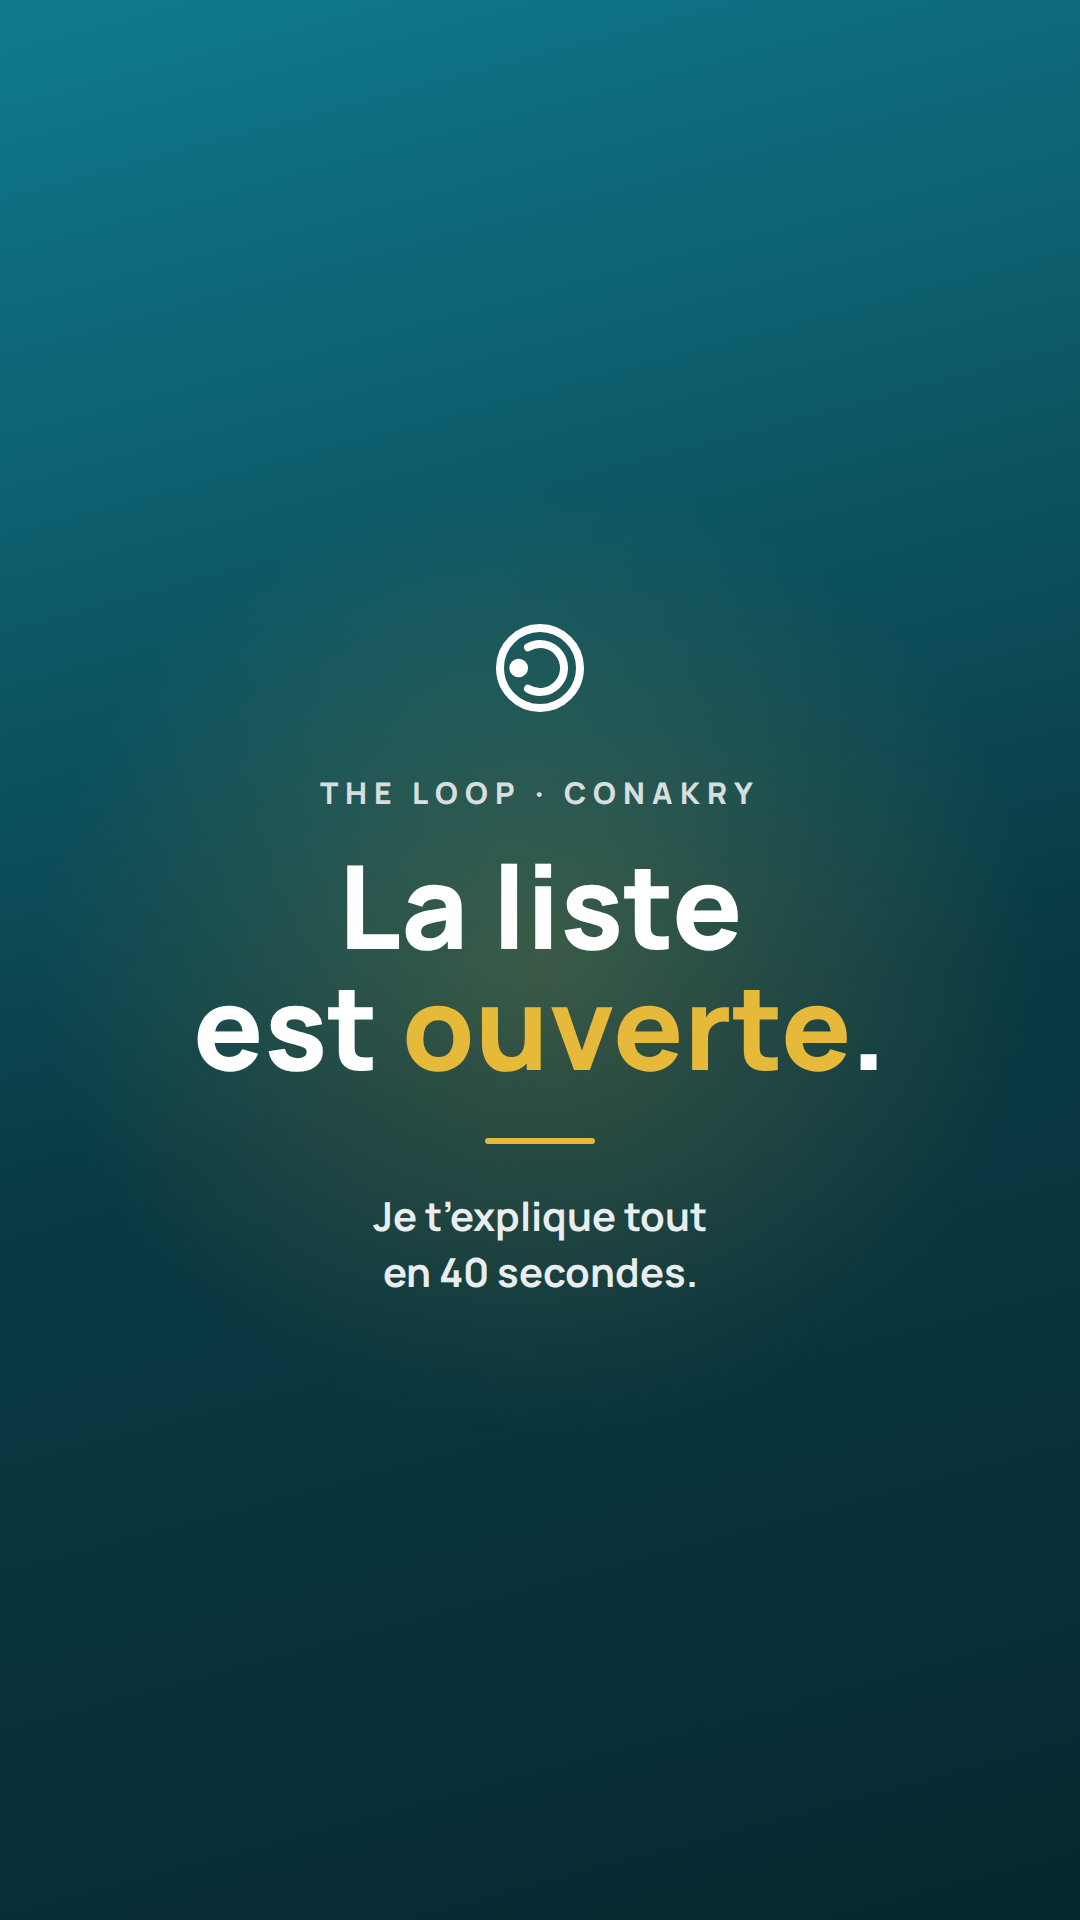
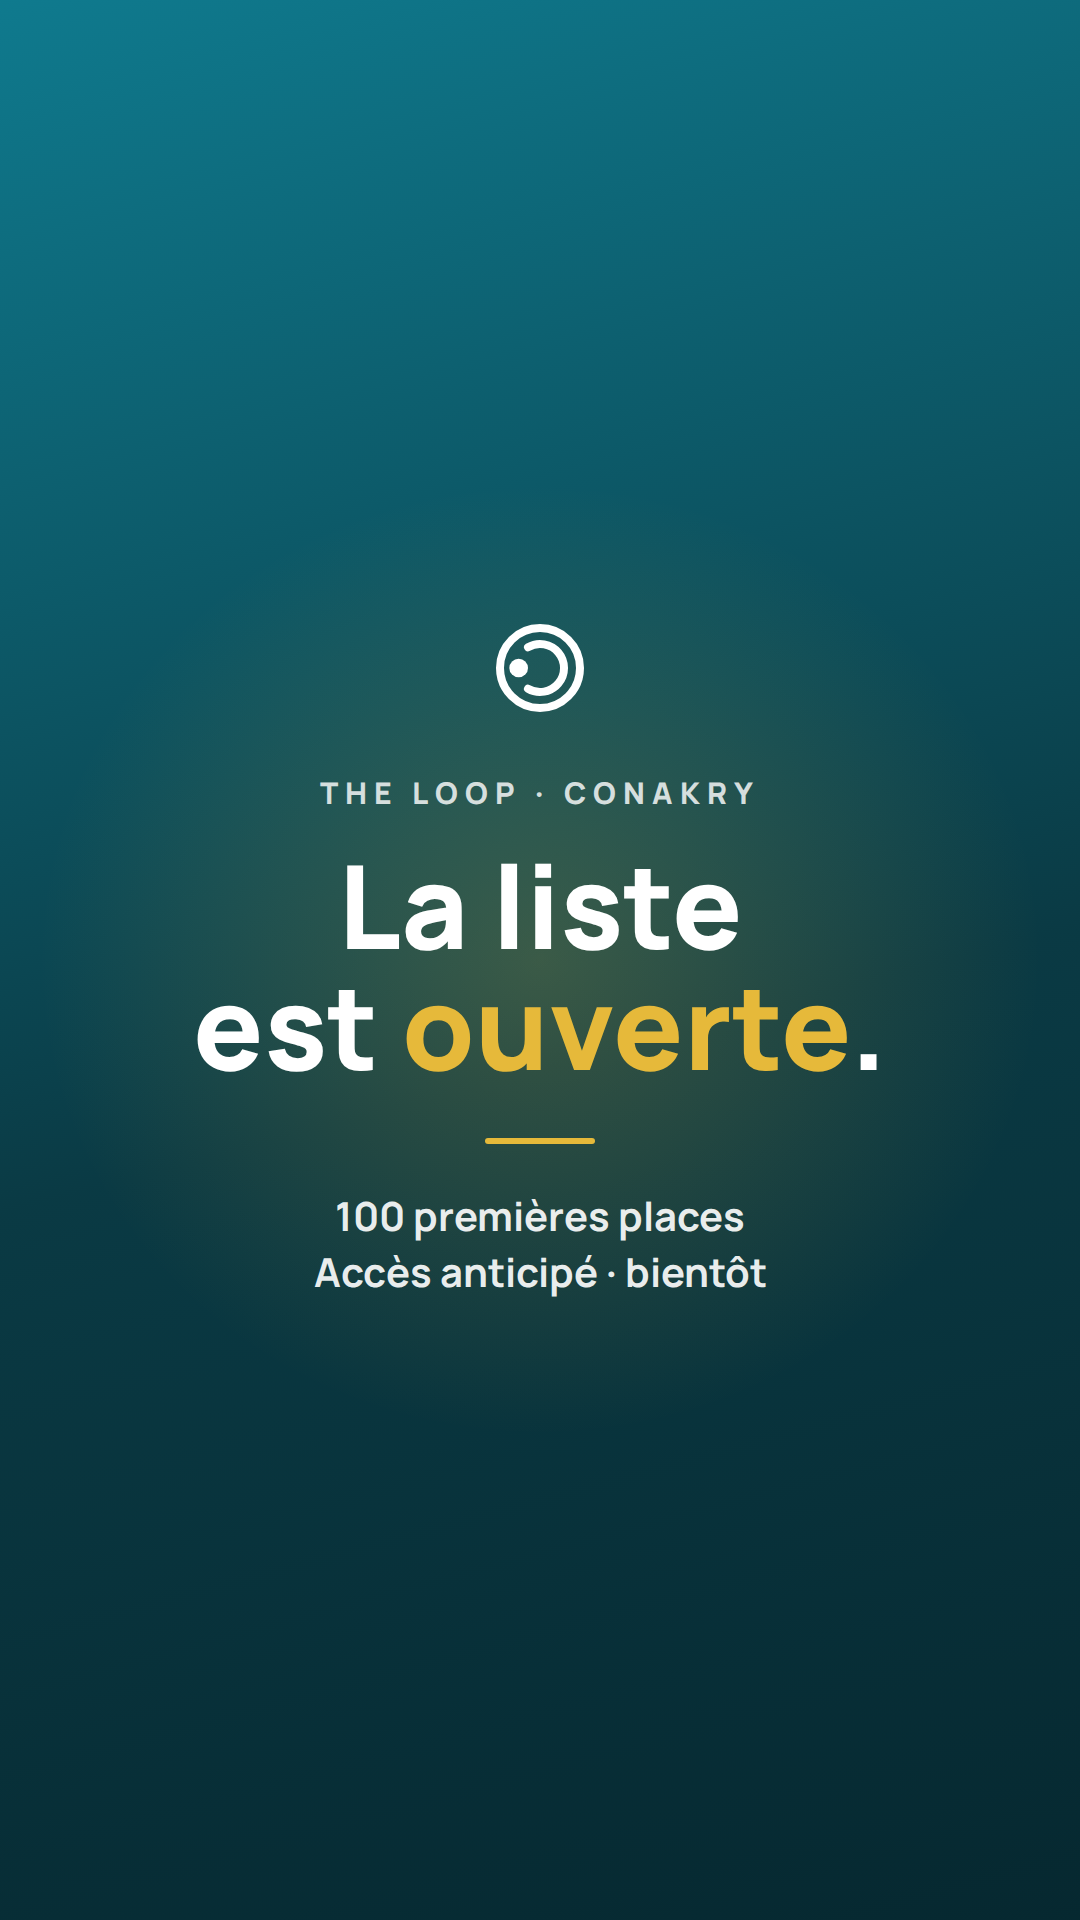
com(17/11): affiche piliers plan 5, cover sans texte 40s

Changed region(s): [[0.275, 0.625, 0.7028, 0.6875]]

diff --git a/docs/communication/lancement-2026/export-visuels-covers-fondatrice.html b/docs/communication/lancement-2026/export-visuels-covers-fondatrice.html
@@ -33,7 +33,7 @@
       <p class="ey">The Loop · Conakry</p>
       <h1 class="h">La liste<br />est <span class="gold">ouverte</span>.</h1>
       <div class="rule"></div>
-      <p class="p">Je t’explique tout<br />en 40 secondes.</p>
+      <p class="p">100 premières places<br />Accès anticipé · bientôt</p>
     </div>
   </div>
 

diff --git a/docs/communication/lancement-2026/video-1711-montage/SCENARIO-VENDREDI-SCROLL.md b/docs/communication/lancement-2026/video-1711-montage/SCENARIO-VENDREDI-SCROLL.md
@@ -3,47 +3,46 @@
 **Format :** 9:16 · 1080×1920 · **Reels + feed Facebook**  
 **UTM :** `frequence_1711` · **SRT :** `../archives/srt/POST_17-11_scroll-recherche.srt`
 
-> **Ne pas utiliser** dans ce montage : `FRAME_1711_01` … `06`, cover « je t’explique tout en 40 secondes », capture Accueil « démo app » (Agenda/Spots en rafale).  
-> Fin CTA : **`COVER_17-11_liste-ouverte.png`** (déjà dans ce dossier) **ou** copies `09` / `10` (voir `README.md`).
+> **Interdit dans ce montage :** PNG **face caméra** avec « 40 secondes » (ancienne version de `COVER_17-11_liste-ouverte` — regénérer après pull), `FRAME_1711_01`…`06`, rafale Agenda/Spots/Outils.
 
 ---
 
-## Fichiers dans `video-1711-montage/` (ordre timeline)
+## Affiches à utiliser (PNG prêts)
 
-| # | Fichier | Qui le fournit |
-|---|---------|----------------|
-| 02 | `02_SCROLL_main.mp4` ou `SCROLL_reseaux-bulles.mp4` | **Toi** · scroll réseaux |
-| 04 | `04_SEARCH_taper-efface.mp4` | **Toi** · recherche puis effacer |
-| 05 | `05_APP_fragment-seuil.png` ou `APP_fragment-seuil-com.png` | Capture **Le Fragment** |
-| 06 | `06_LOGO_the-loop.png` | Optionnel · logo · **ou** overlay CapCut seul |
-| fin | `COVER_17-11_liste-ouverte.png` | CTA · liste ouverte (pack dossier) |
+| Rôle | Fichier | Où le prendre |
+|------|---------|----------------|
+| **Plan 5 · promesse** | `CARROUSEL_17-11_03_piliers.png` | `exports-png-v4-light/` (copier dans ce dossier si tu veux) |
+| **Plans 6–8 · CTA** | `COVER_17-11_liste-ouverte.png` | `video-1711-montage/` **ou** `exports-png-v4-light/` *(sans texte « 40 secondes » — voir README)* |
+| **Option fin URL** | `CARROUSEL_17-11_05_reserve.png` | dernier plan « Réserve ta place » si tu préfères l’affiche carrousel |
+
+**Ne pas utiliser :** `export-visuels-covers-fondatrice.html` slide « Je t’explique… » (réservé **autre** vidéo, texte corrigé dans le repo).
 
 ---
 
-## Tableau montage
+## Rushs (toi)
 
-| Plan | Début | Fin | Durée | Visuel | Texte à l’écran (CapCut) | Voix off |
-|------|-------|-----|-------|--------|--------------------------|----------|
-| 1 | 0:00 | 0:02 | 2 s | début scroll | **Vendredi · 19h · Conakry** | *(silence)* |
+| Fichier | Contenu |
+|---------|---------|
+| `SCROLL_reseaux-bulles.mp4` ou `02_SCROLL_main.mp4` | Scroll |
+| `04_SEARCH_taper-efface.mp4` | Recherche → effacer |
+| `APP_fragment-seuil-com.png` | Le Fragment |
+
+---
+
+## Tableau montage CapCut (ordre des pistes)
+
+| Plan | Début | Fin | Durée | Visuel | Texte CapCut | Voix off |
+|------|-------|-----|-------|--------|--------------|----------|
+| 1 | 0:00 | 0:02 | 2 s | scroll | **Vendredi · 19h · Conakry** | *(silence)* |
 | 2 | 0:02 | 0:10 | 8 s | scroll | **Un plan pour le week-end ?** | Ce soir, je cherche un plan pour le week-end. |
-| 3 | 0:10 | 0:16 | 6 s | recherche | **Où c’était déjà… ?** | Toujours les mêmes endroits. Ou ce spot dont je ne retrouve plus le nom. Posts, stories, reels… Trop de bruit. Peu de repères. |
-| 4 | 0:16 | 0:24 | **8 s** | Fragment | ***(aucun gros texte — lire l’image)*** | *(silence)* **ou** *Les bonnes adresses ne s’annoncent pas. Elles se transmettent.* |
-| 5 | 0:24 | 0:29 | 5 s | logo ou fond teal | **The Loop** · *guide sélectif* | The Loop, c’est un guide sélectif pour Conakry. Spots, agenda, parcours, outils — en clair. |
-| 6 | 0:29 | 0:35 | 6 s | cover liste | *(déjà dans le PNG)* | Aujourd’hui, la liste est ouverte. Cent premières places pour un accès anticipé, bientôt. |
-| 7 | 0:35 | 0:38 | 3 s | cover (même) | *(PNG)* | Premiers inscrits, premiers invités. |
-| 8 | 0:38 | 0:42 | 4 s | cover | **Réserve ta place ↓** | Le lien est juste en dessous. Réserve ta place. |
+| 3 | 0:10 | 0:16 | 6 s | recherche | **Où c’était déjà… ?** | Toujours les mêmes endroits… Posts, stories, reels… Trop de bruit. Peu de repères. |
+| 4 | 0:16 | 0:24 | **8 s** | Fragment | *(rien)* | *(silence)* ou *Les bonnes adresses ne s’annoncent pas. Elles se transmettent.* |
+| 5 | 0:24 | 0:29 | 5 s | **`CARROUSEL_17-11_03_piliers.png`** | *(texte sur l’affiche)* | The Loop, c’est un guide sélectif pour Conakry. Spots, agenda, parcours, outils — en clair. |
+| 6 | 0:29 | 0:35 | 6 s | **`COVER_17-11_liste-ouverte.png`** | *(affiche)* | Aujourd’hui, la liste est ouverte. Cent premières places… |
+| 7 | 0:35 | 0:38 | 3 s | même cover | *(affiche)* | Premiers inscrits, premiers invités. |
+| 8 | 0:38 | 0:42 | 4 s | cover **ou** `CARROUSEL_17-11_05_reserve.png` | *(affiche)* | Le lien est juste en dessous. Réserve ta place. |
 
-**Total ~42 s** — « 40 s » = durée cible, **pas** une phrase de cover Reels.
-
----
-
-## Texte écran vs image
-
-| Type | Règle |
-|------|--------|
-| Scroll / recherche | Overlay CapCut **oui** (1–2 lignes courtes) |
-| **Le Fragment** | Pas de « bruit / reels » par-dessus · **7–8 s** de lecture |
-| **Cover** | Ne pas recopier le texte en double |
+**Pas de logo seul · pas de fond teal vide · pas de cover « 40 secondes ».**
 
 ---
 
@@ -60,6 +59,6 @@
 
 ---
 
-## Plus de détail (scroll FB/IG/TikTok, bulles)
+## Cover Reels Meta (miniature)
 
-Voir aussi `MONTAGE-17-11.md` et `PREPARATION-17-11.md` (méthode longue · plan B).
+Frame **Vendredi 19h** ou **`CARROUSEL_17-11_01_liste-ouverte.png`** — **jamais** l’ancienne cover « 40 secondes ».

diff --git a/docs/communication/lancement-2026/video-1711-montage/README.md b/docs/communication/lancement-2026/video-1711-montage/README.md
@@ -10,7 +10,7 @@
 | Utiliser | Ignorer |
 |----------|---------|
 | Tes rushs scroll / recherche · **`COVER_17-11_liste-ouverte.png`** (fin) | **`FRAME_1711_01` … `06`** (vidéo « La fréquence » — secours seulement) |
-| **`APP_fragment-seuil-com.png`** (Le Fragment) | Cover **« Je t’explique tout en 40 secondes »** |
+| **`CARROUSEL_17-11_03_piliers.png`** (plan 5 · affiche) | Ancienne **`COVER_17-11_liste-ouverte`** avec « 40 secondes » — refaire `git pull` + regén PNG |
 | Bulles `BULLE_reseau-*` · `B-roll-main.mp4` (option) | Rafale **Agenda / Spots / Outils** (ancien scénario 109 lignes) |
 | SRT : `../archives/srt/POST_17-11_scroll-recherche.srt` | Vidéo auto stitch PNG |
 
